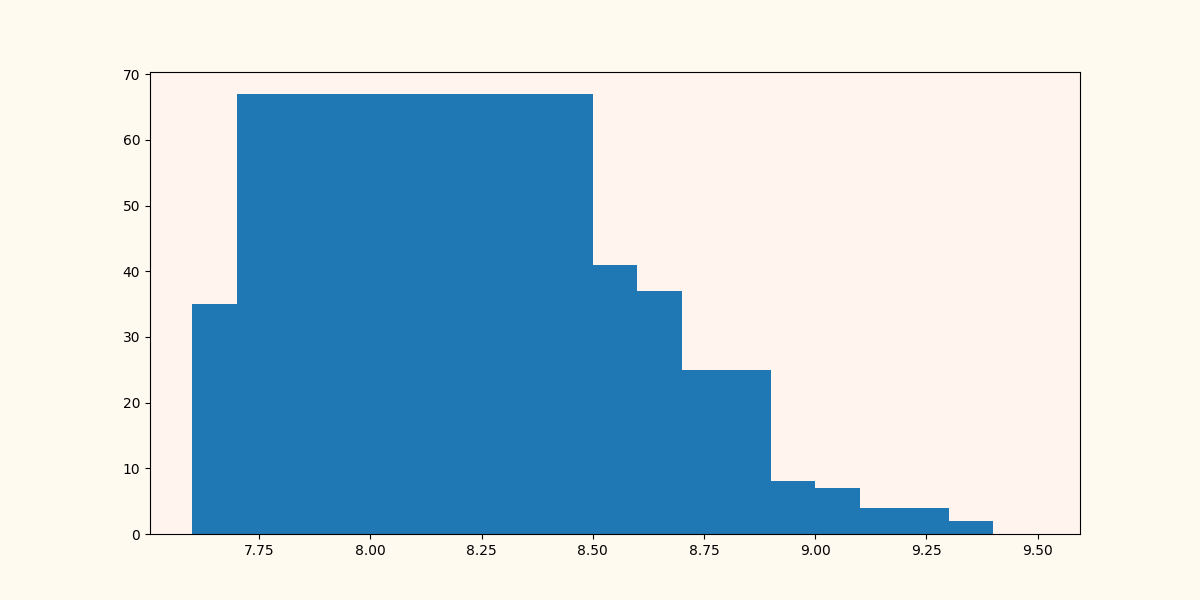
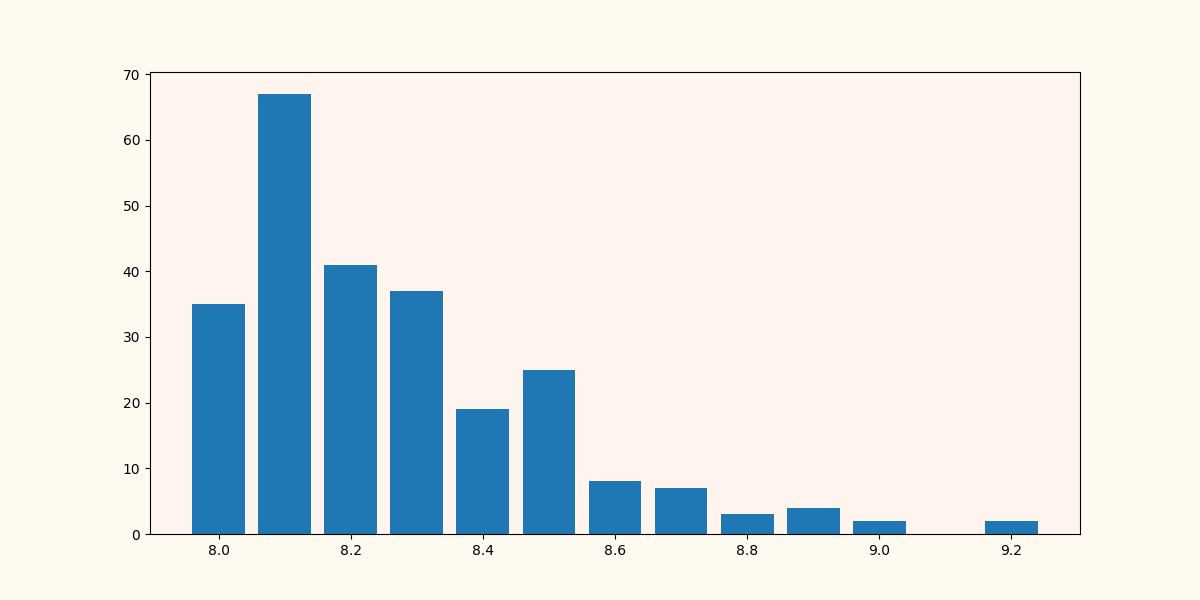
Fixed file for flake8

Changed region(s): [[0.2467, 0.15, 0.8942, 0.93], [0.185, 0.15, 0.2158, 0.93], [0.4933, 0.9, 0.5242, 0.93]]

diff --git a/src/Homework5/task4.py b/src/Homework5/task4.py
@@ -71,7 +71,7 @@ else:
         file2.close()
         print('Export rates complete')
         fig1, ax = plt.subplots()
-        ax.bar(x_rank, y_rank)
+        ax.bar(x_rank, y_rank, width=0.08)
         ax.set_facecolor('seashell')
         fig1.set_facecolor('floralwhite')
         fig1.set_figwidth(12)
@@ -91,9 +91,9 @@ else:
         file3.writelines(line + '\n' for line in exp_year)
         file3.close()
         print('Export years complete')
-        fig2, bx = plt.subplots()
-        bx.bar(x_year, y_list_year)
-        bx.set_facecolor('seashell')
+        fig2, ax = plt.subplots()
+        ax.bar(x_year, y_list_year, width=0.8)
+        ax.set_facecolor('seashell')
         fig2.set_facecolor('floralwhite')
         fig2.set_figwidth(12)
         fig2.set_figheight(6)
